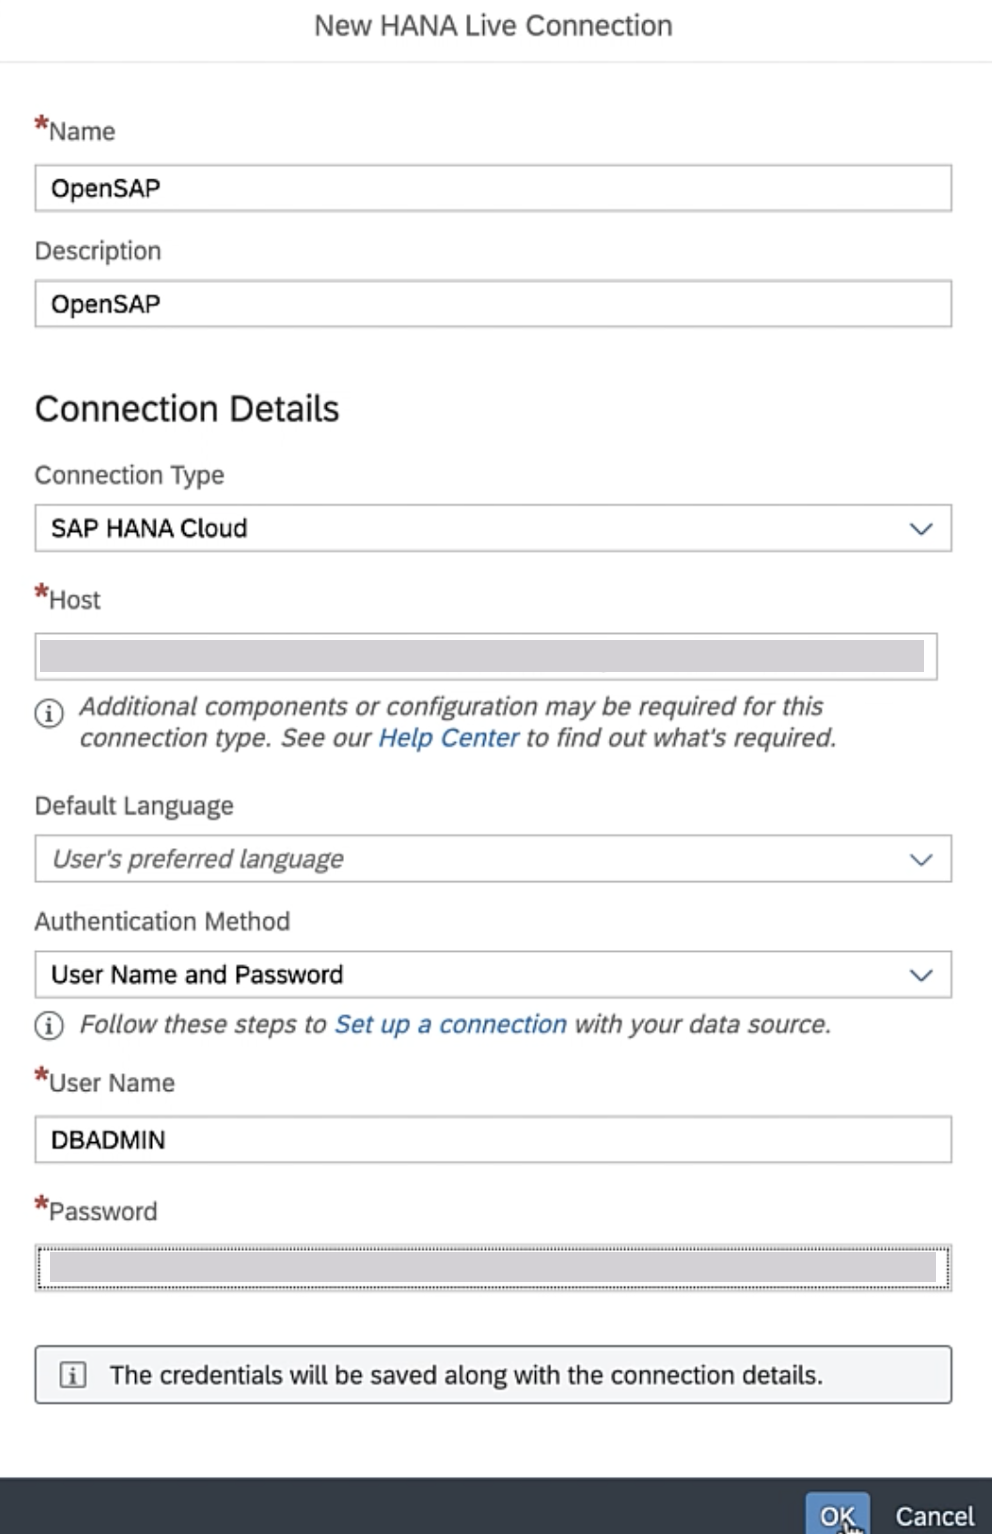
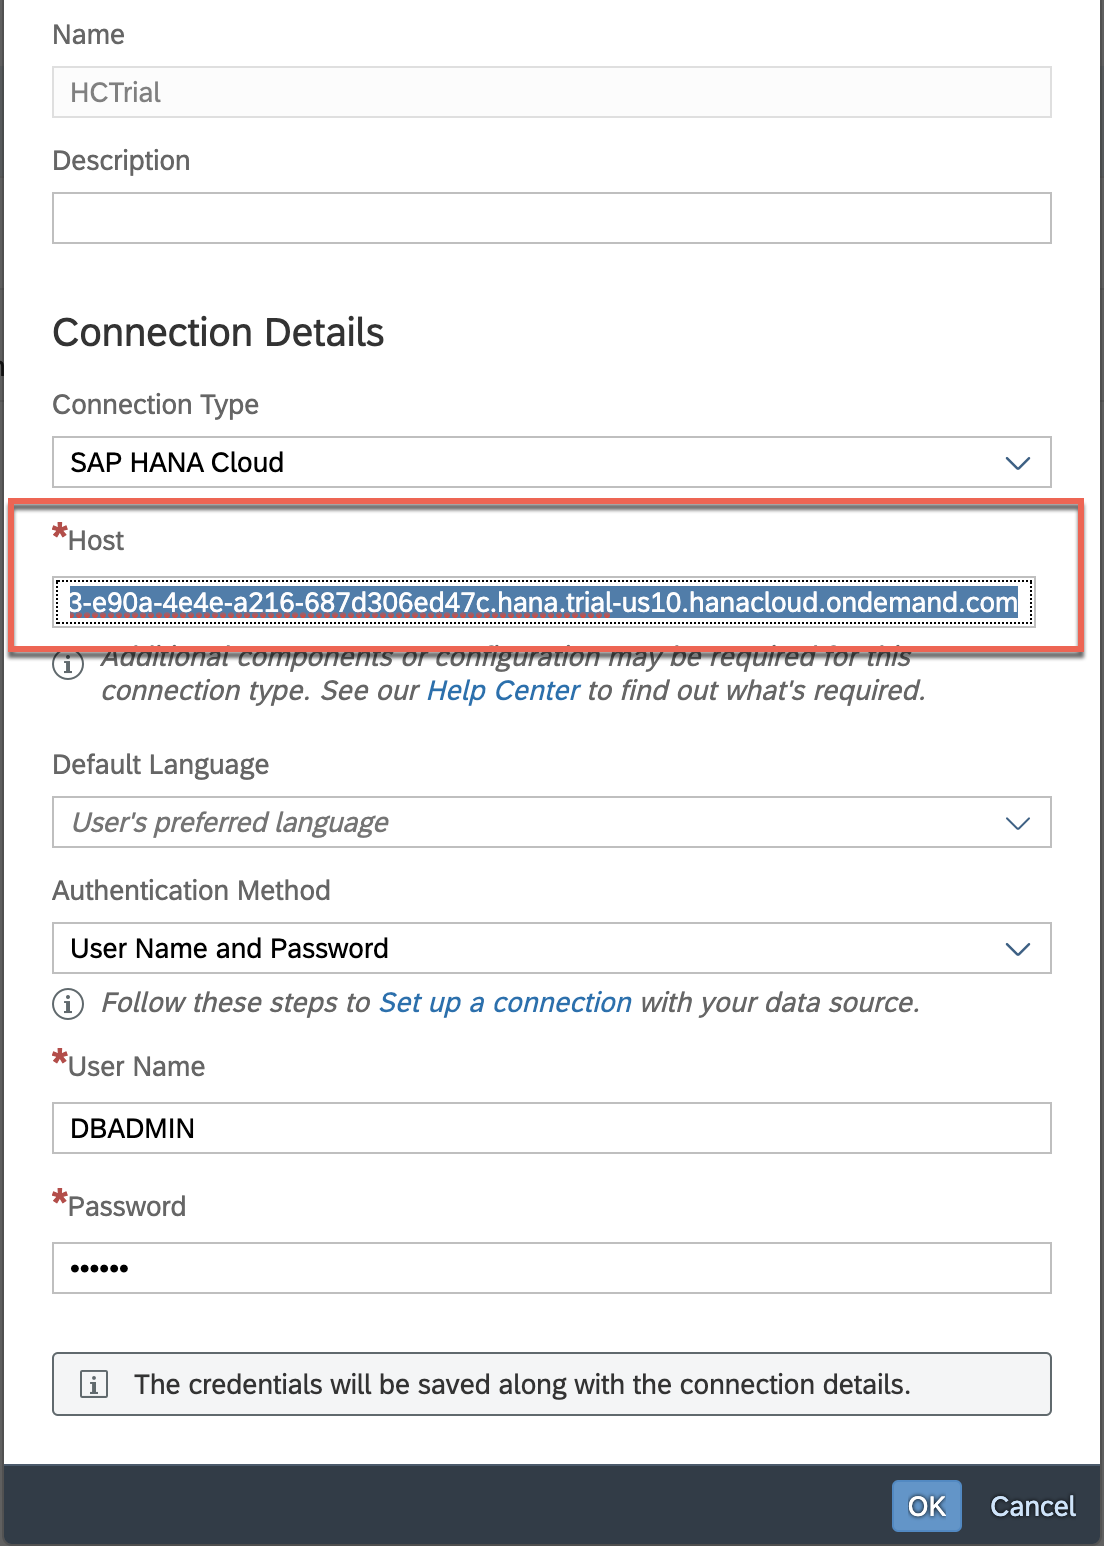
Week4Unit3 + Unit4 version Max

Changed region(s): [[0.0, 0.0, 1.0, 1.0], [0.31, 0.0, 0.682, 0.0306], [0.93, 0.1838, 0.961, 0.2145]]

diff --git a/Week1/Unit2/README.md b/Week1/Unit2/README.md
@@ -24,9 +24,9 @@ In this unit we lay the foundation for the other weeks in this course. You will 
 
 ![SAP Log On](./images/trial_saplogon.png)
 
-If you have an account on www.sap.com (e.g. a P, S, C, D or I number) you can enter it or the associated email along with your password. If you don’t have an account yet, you can select one of the other login methods or click Register to create an account.
+If you have an account on www.sap.com (e.g. a P, S, C, D or I number) you can enter it or the associated email along with your password. If you don’t have an account yet, you can select one of the other login methods or click **Register** to create an account.
 
-> **Important: In Week 4 of this openSAP course you will register for an SAP Analytics Cloud trial account - these can only be created with sap.com accounts that have no @gmail.com or @yahoo.com mail addresses associated. In case you have a sap.com account with a gmail.com or yahoo.com mail address we would recommend to create a new one with another mail address.** 
+> **IMPORTANT: In Week 4 of this openSAP course you will register for an SAP Analytics Cloud trial account - these can only be created with sap.com accounts that have no @gmail.com or @yahoo.com mail addresses associated. In case you have a sap.com account with a gmail.com or yahoo.com mail address we would highly recommend to create a new one with another mail address.** 
 
 ![SAP Log On Screen](./images/trial_logonscreen.png)
 

diff --git a/Week4/Unit4/README.md b/Week4/Unit4/README.md
@@ -24,15 +24,18 @@ Logon to SAP Analytics Cloud using the credentials from [Week 4, Unit1](../Unit1
 ![NewConnection](./images/01-new-connection.png)
 
 
-1.2. Select **SAP HANA** (Connect to Live Data). 
+1.2 Select **SAP HANA** (Connect to Live Data). 
 
 ![NewHANACloud](./images/02-hana-connection.png)
 
+1.3 Switch the **Connection Type** from **SAP Cloud Platform** to **SAP HANA Cloud**. 
 
-1.3. Enter the credentials for SAP HANA Cloud and click OK.
+![Connection Type](./images/connection_type.png)
+
+1.4 Enter the credentials for **SAP HANA Cloud** and click OK.
 
   Connection Type : SAP HANA Cloud
-  Host : <your HANA Cloud instance host name> (how to get the host name: [Week 4, Unit 3 - Step 7.4](../Unit3/README.md#hostname))
+  Host : <your HANA Cloud instance host name without port> (how to get the host name: [Week 4, Unit 3 - Step 7.4](../Unit3/README.md#hostname))
   Authentication Method : User Name and Password
   User Name : DBADMIN
   Password : <Password for DBADMIN>
@@ -41,4 +44,4 @@ Logon to SAP Analytics Cloud using the credentials from [Week 4, Unit1](../Unit1
 
   ## Summary
   
-  Good Job! Now you have successfully setup a live connection from SAP Analytics Cloud to SAP HANA Cloud to
+  Good Job! Now you have successfully set up a live connection from SAP Analytics Cloud to SAP HANA Cloud. In the next unit, you will leverage this connection consume the data through a virtual table on SAP HANA Cloud. 

diff --git a/Week4/Unit1/README.md b/Week4/Unit1/README.md
@@ -65,7 +65,7 @@ SAP HANA Cloud will play a substantial role in this weeks content. To be prepare
 
 2.5. Continue with **Create**. Your new subaccount gets created now. 
 
-> SAP HANA Cloud is currently only available in one of the AWS regions in the Trial Landscapes - therefore we have to create a new subaccount in this region for these exercises - but technically this makes no difference for the exercises.  Of course, in production accounts SAP HANA Cloud is available on multiple Microsoft Azure Regions as well. For an overview please go to the [Discovery Center](https://discovery-center.cloud.sap/serviceCatalog/sap-hana-cloud?region=all&tab=service_plan). 
+> SAP HANA Cloud is currently only available in one of the AWS regions in the SAP BTP Trial Landscapes - therefore you have to create a new subaccount in this region for these exercises - but technically this makes no difference for the exercises.  Of course, in production accounts SAP HANA Cloud is available on multiple Microsoft Azure Regions as well. For an overview please go to the [Discovery Center](https://discovery-center.cloud.sap/serviceCatalog/sap-hana-cloud?region=all&tab=service_plan). 
 
 ![Subaccount details](./images/07-subaccountdetails.png)
 
